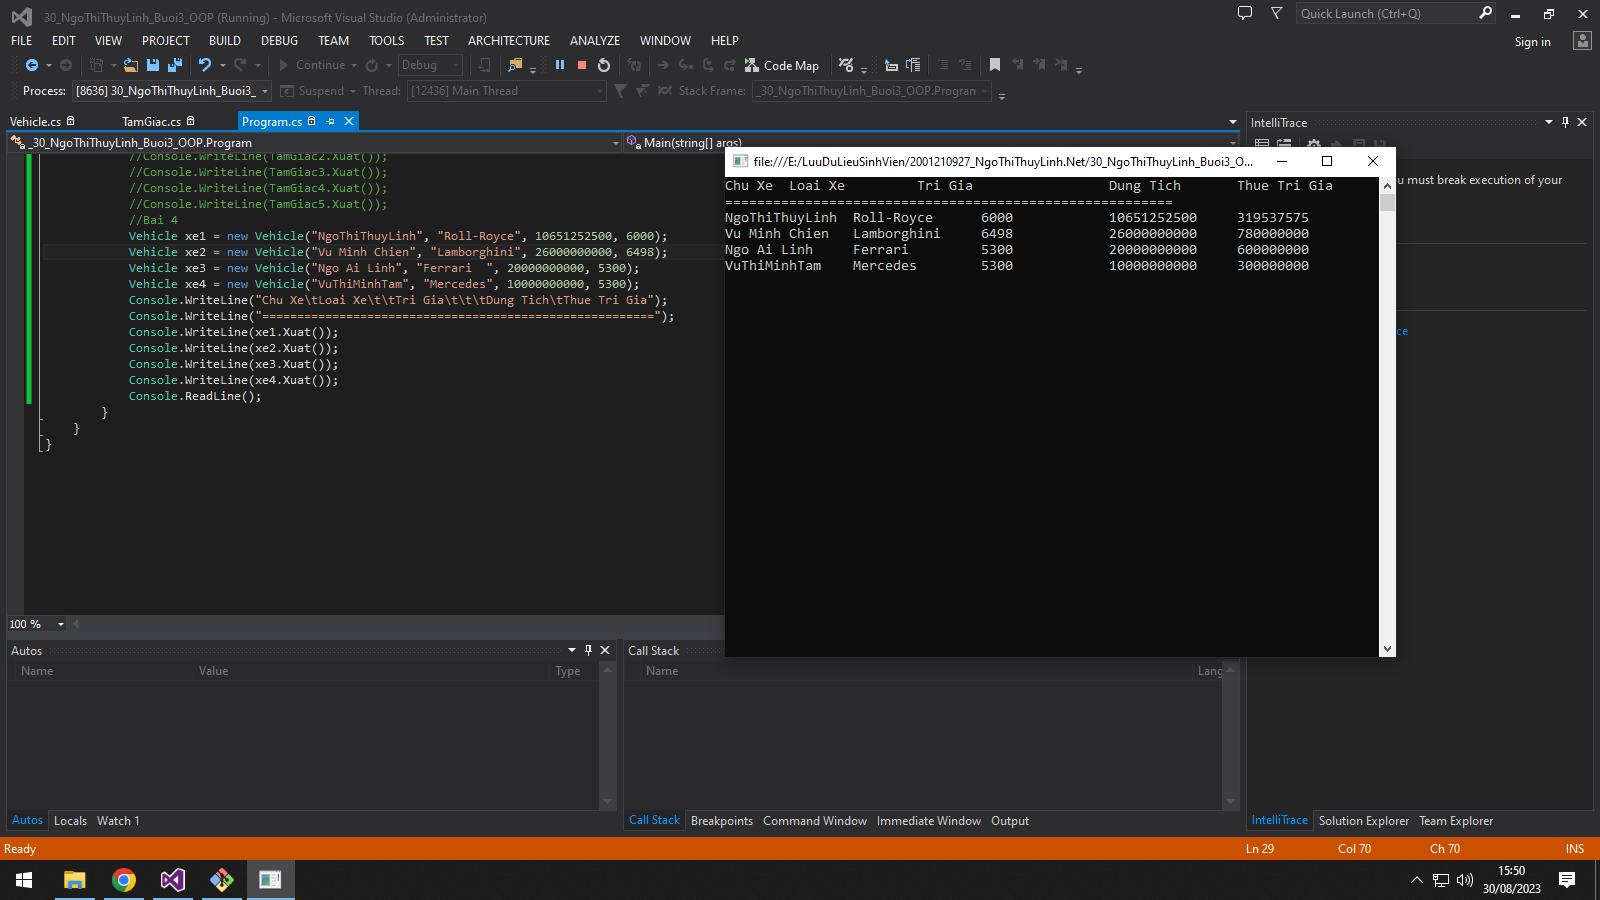
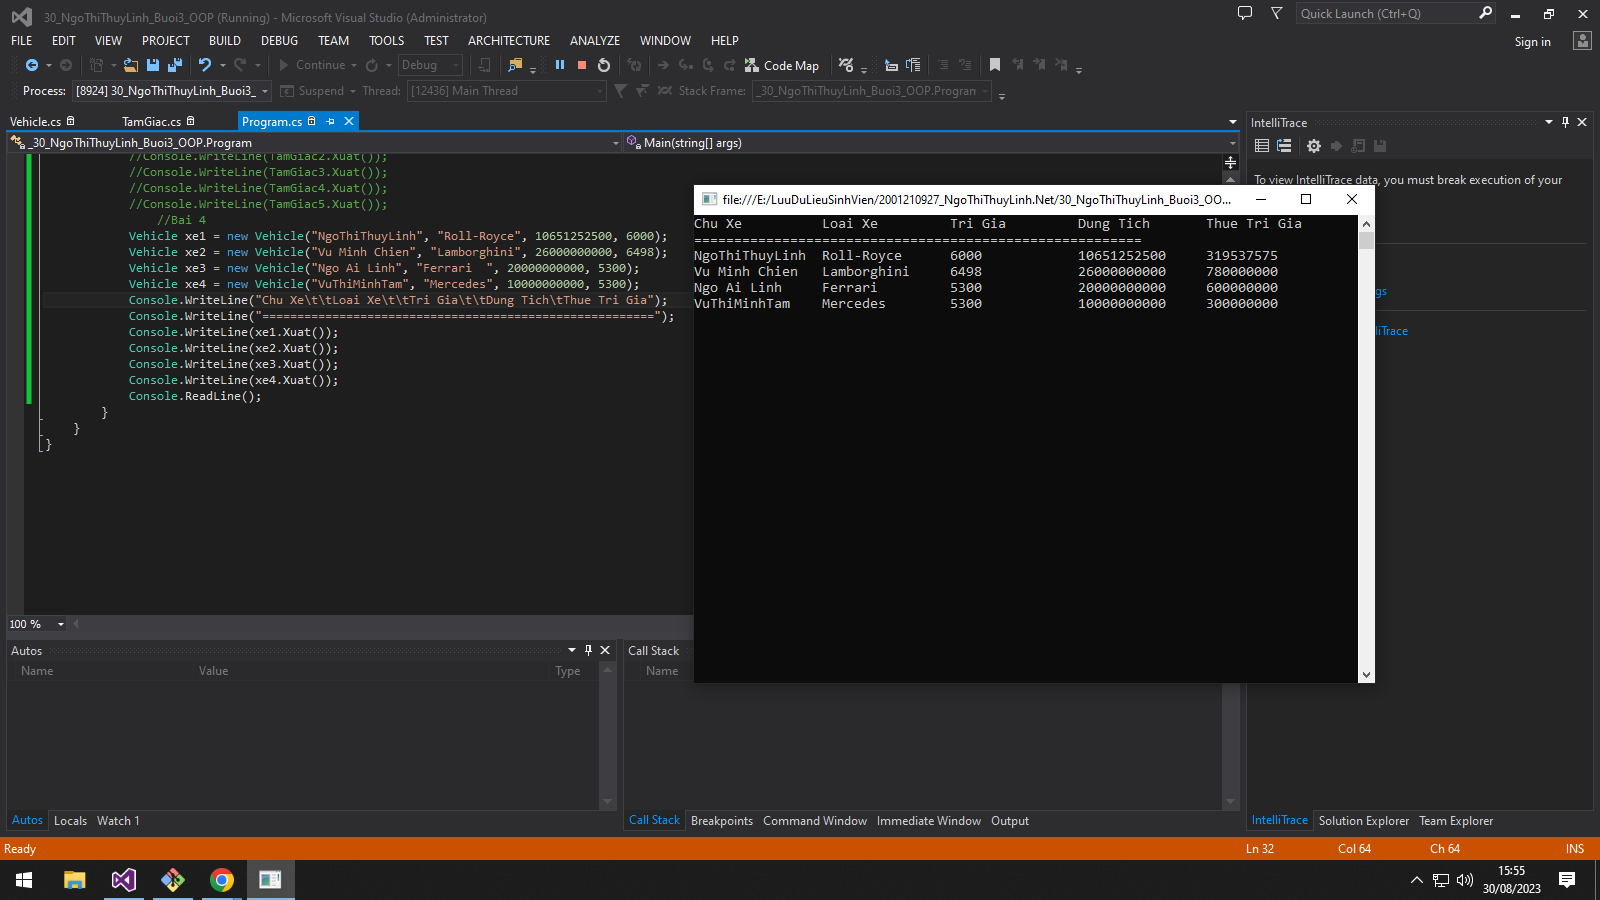
add lan2 bai4

diff --git a/30_NgoThiThuyLinh_Buoi3_OOP/Program.cs b/30_NgoThiThuyLinh_Buoi3_OOP/Program.cs
@@ -10,7 +10,7 @@ namespace _30_NgoThiThuyLinh_Buoi3_OOP
     {
         static void Main(string[] args)
         {
-            //Bai 3
+                 //Bai 3
             //TamGiac TamGiac1 = new TamGiac(3, 4, 5);
             //TamGiac TamGiac2 = new TamGiac(8, 8, 5);
             //TamGiac TamGiac3 = new TamGiac(4, 4, 4);
@@ -24,12 +24,12 @@ namespace _30_NgoThiThuyLinh_Buoi3_OOP
             //Console.WriteLine(TamGiac3.Xuat());
             //Console.WriteLine(TamGiac4.Xuat());
             //Console.WriteLine(TamGiac5.Xuat());
-            //Bai 4
+                //Bai 4
             Vehicle xe1 = new Vehicle("NgoThiThuyLinh", "Roll-Royce", 10651252500, 6000);
             Vehicle xe2 = new Vehicle("Vu Minh Chien", "Lamborghini", 26000000000, 6498);
             Vehicle xe3 = new Vehicle("Ngo Ai Linh", "Ferrari  ", 20000000000, 5300);
             Vehicle xe4 = new Vehicle("VuThiMinhTam", "Mercedes", 10000000000, 5300);
-            Console.WriteLine("Chu Xe\tLoai Xe\t\tTri Gia\t\t\tDung Tich\tThue Tri Gia");
+            Console.WriteLine("Chu Xe\t\tLoai Xe\t\tTri Gia\t\tDung Tich\tThue Tri Gia");
             Console.WriteLine("========================================================");
             Console.WriteLine(xe1.Xuat());
             Console.WriteLine(xe2.Xuat());
